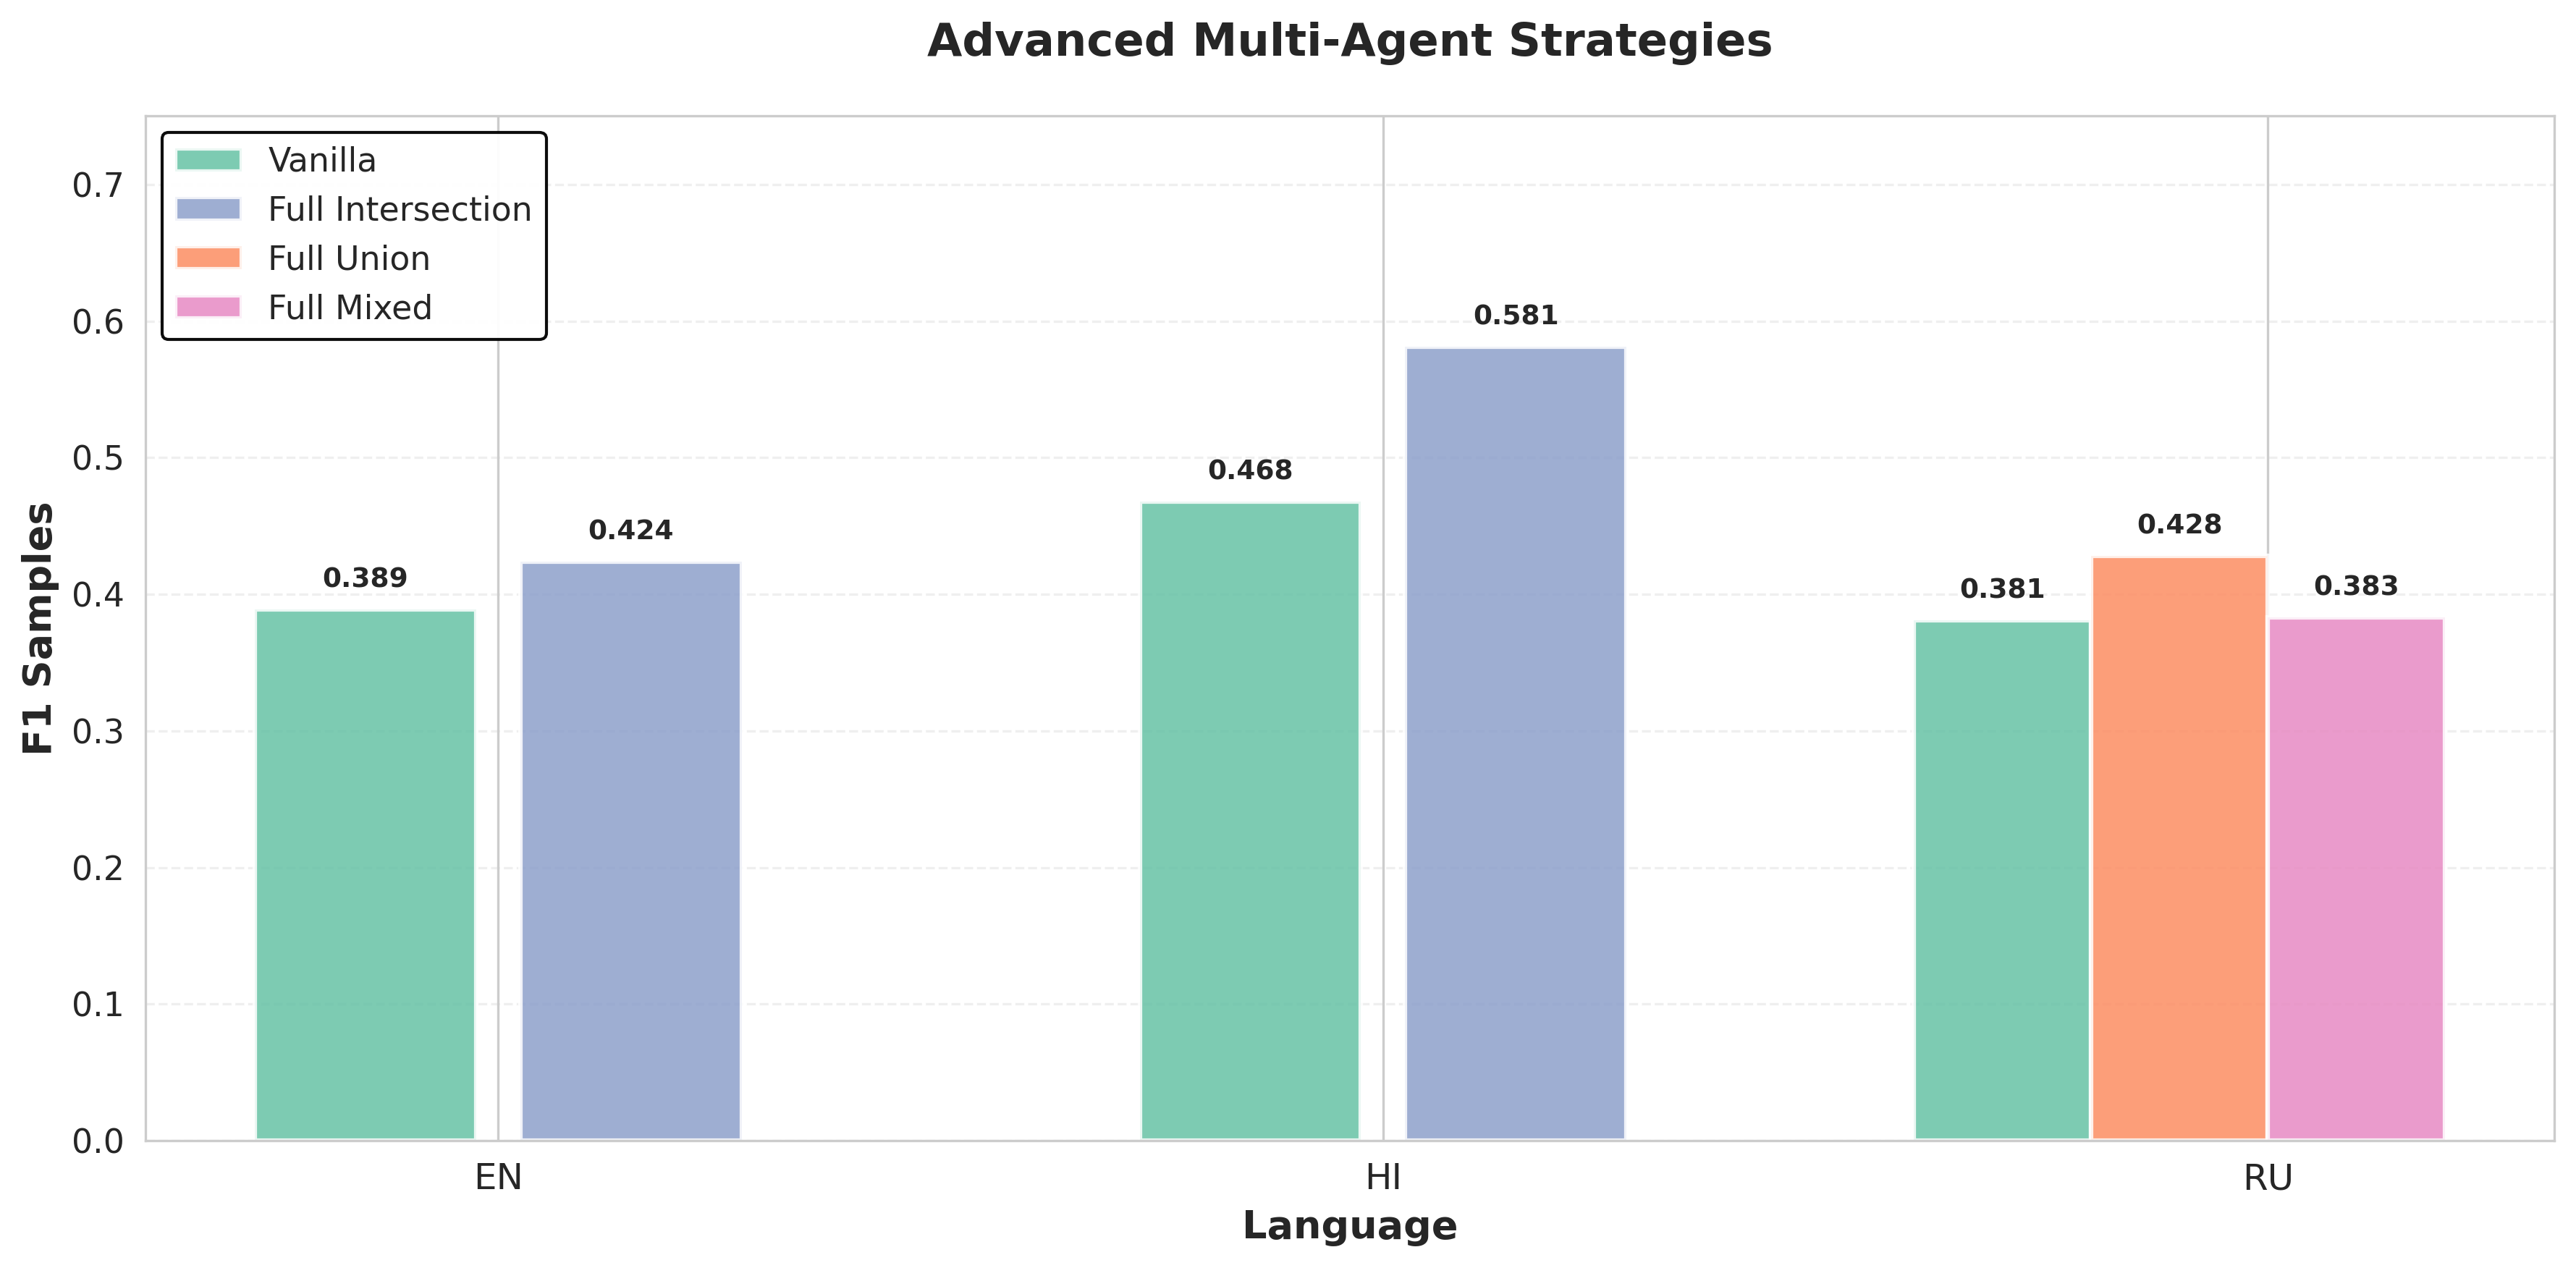
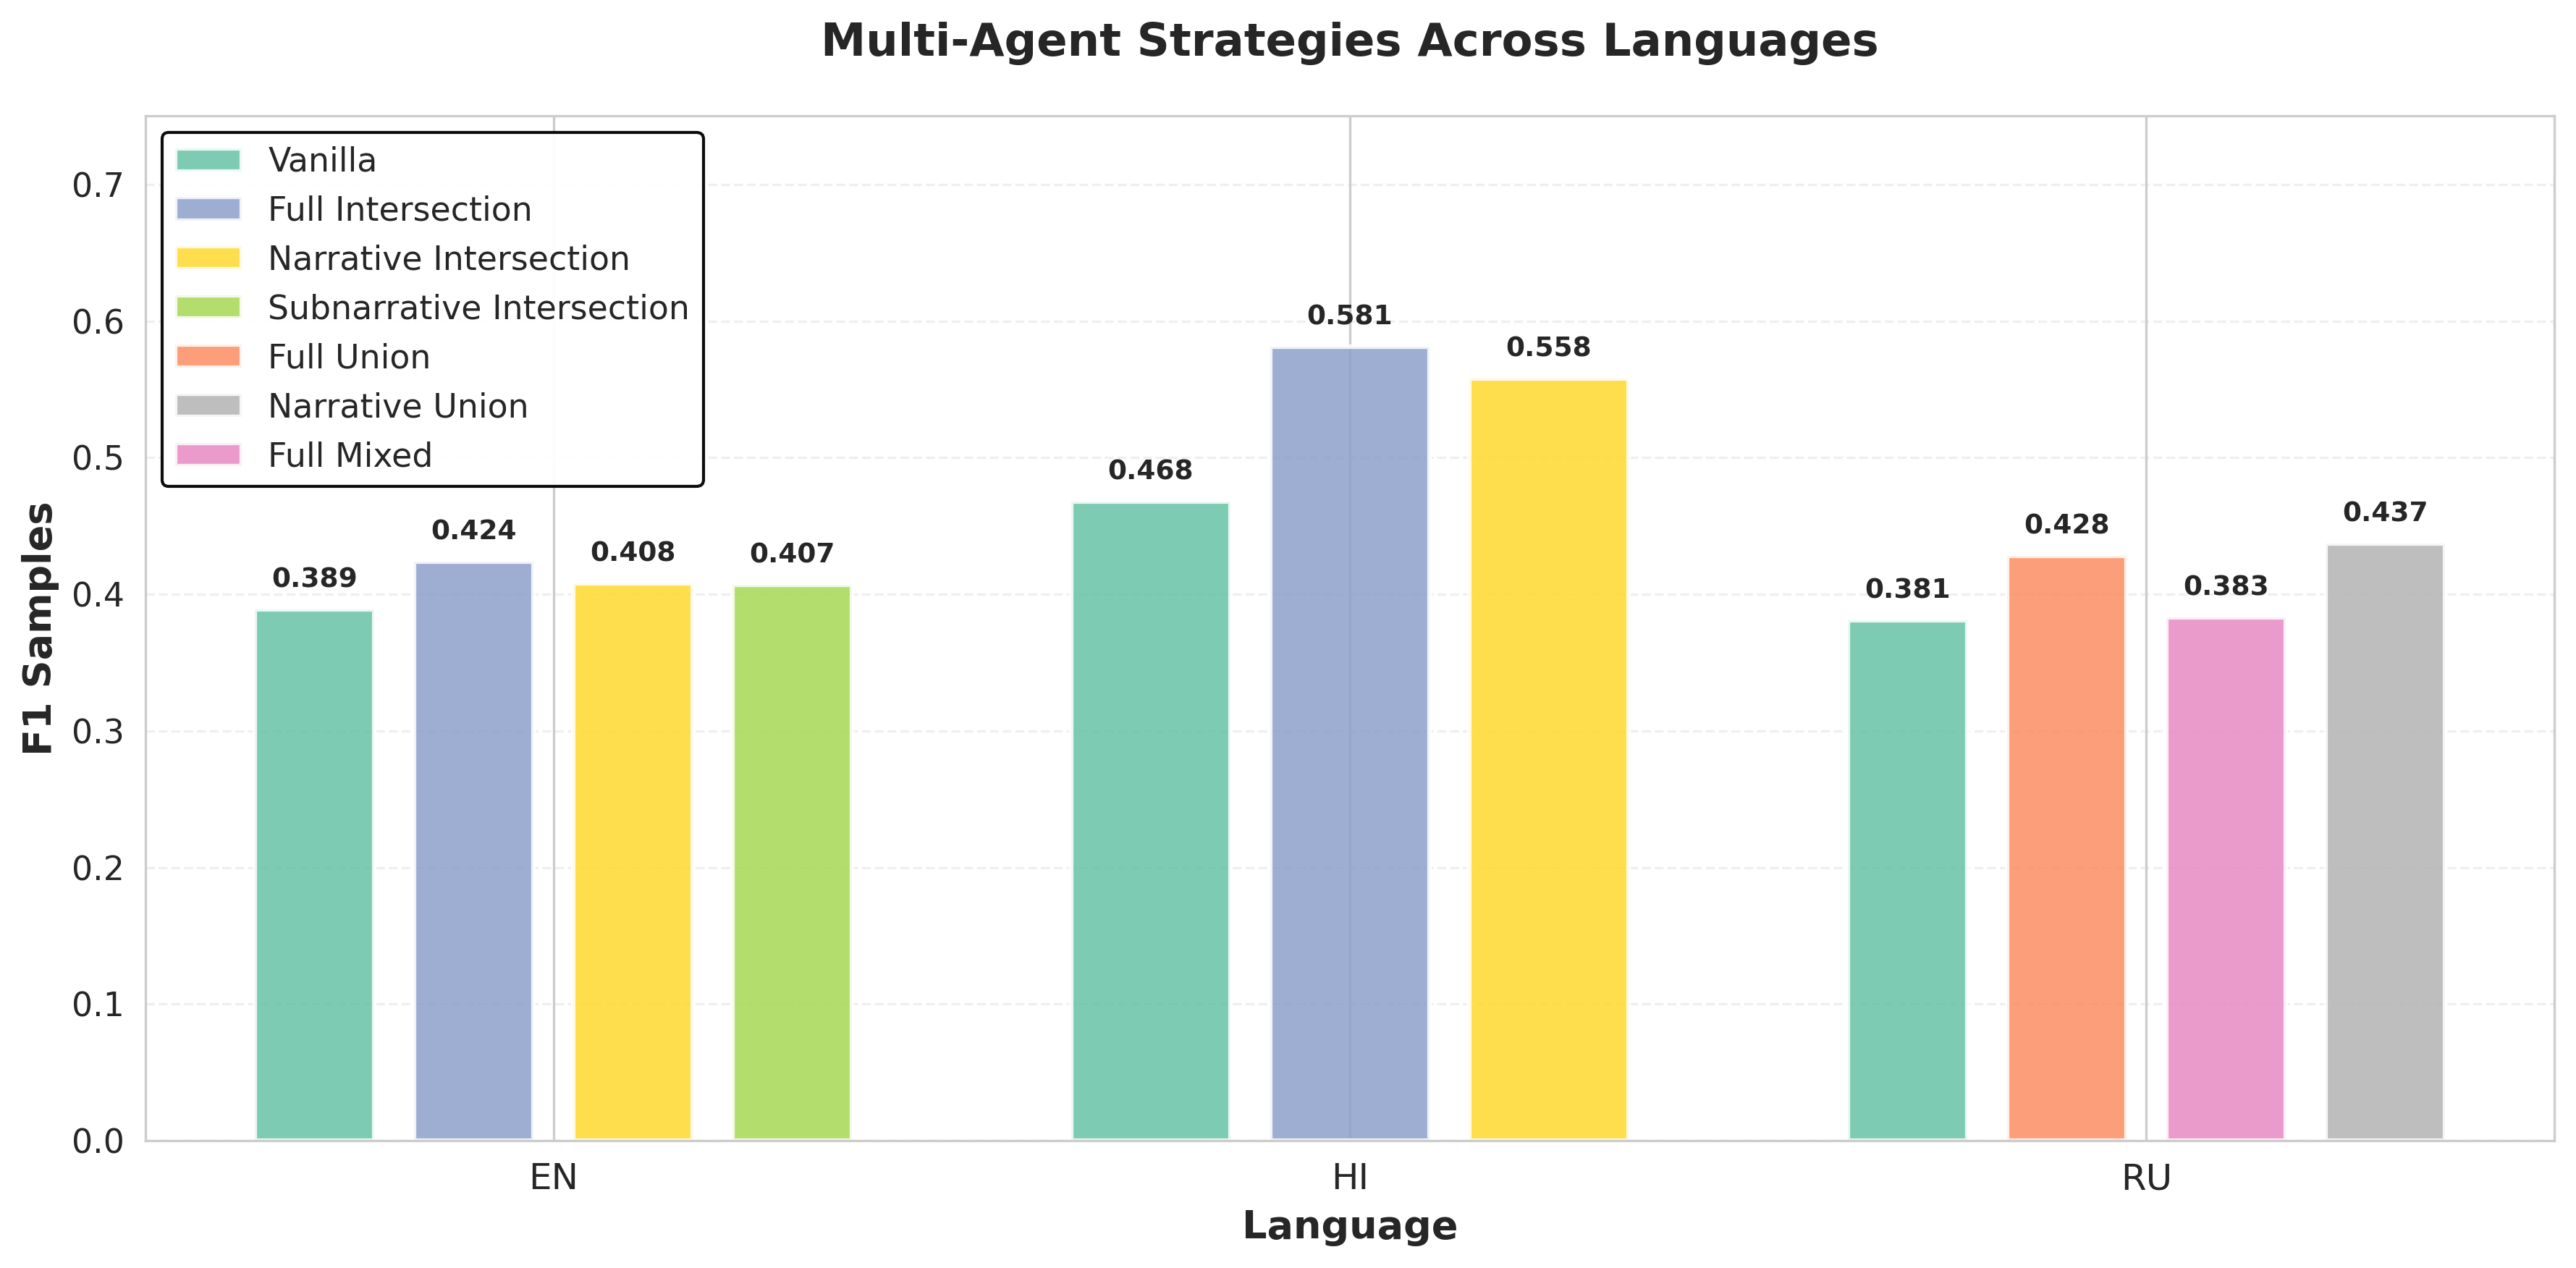
Update plot2_advanced_strategies.py to enhance multi-agent strategy visualization and include additional strategies for EN, HI, and RU

diff --git a/src/analysis/plot2_advanced_strategies.py b/src/analysis/plot2_advanced_strategies.py
@@ -1,6 +1,6 @@
 """
-Plot 2: Advanced Multi-Agent Strategies
-Shows Full Intersection for EN & HI, Full Union & Full Mixed for RU (vs Vanilla baselines)
+Plot 2: Multi-Agent Strategies Across Languages
+Shows Full/Narrative/Subnarrative strategies for EN, Full/Narrative for HI, Full/Narrative/Mixed for RU (vs Vanilla baselines)
 """
 import pandas as pd
 import matplotlib.pyplot as plt
@@ -17,7 +17,7 @@ df = pd.read_csv('results/openai_gpt-5-nano/summary.csv')
 # Prepare data for plot 2
 plot2_data = []
 
-# English Full Intersection vs Vanilla
+# English - All strategies
 plot2_data.append({
     'Language': 'EN',
     'Strategy': 'Vanilla',
@@ -28,8 +28,20 @@ plot2_data.append({
     'Strategy': 'Full Intersection',
     'f1_samples': df[(df['Language'] == 'EN') & (df['Config'] == 'Full Intersection')]['f1 samples'].values[0]
 })
+# Standardize the English Narrative Intersection name
+en_narr_intersection = df[(df['Language'] == 'EN') & (df['Config'].str.contains('Narrative Intersection'))]['f1 samples'].values
+plot2_data.append({
+    'Language': 'EN',
+    'Strategy': 'Narrative Intersection',
+    'f1_samples': en_narr_intersection[0] if len(en_narr_intersection) > 0 else 0
+})
+plot2_data.append({
+    'Language': 'EN',
+    'Strategy': 'Subnarrative Intersection',
+    'f1_samples': df[(df['Language'] == 'EN') & (df['Config'] == 'Subnarrative Intersection')]['f1 samples'].values[0]
+})
 
-# Hindi Full Intersection vs Vanilla
+# Hindi - Full Intersection and Narrative Intersection
 plot2_data.append({
     'Language': 'HI',
     'Strategy': 'Vanilla',
@@ -40,8 +52,13 @@ plot2_data.append({
     'Strategy': 'Full Intersection',
     'f1_samples': df[(df['Language'] == 'HI') & (df['Config'] == 'Full Intersection')]['f1 samples'].values[0]
 })
+plot2_data.append({
+    'Language': 'HI',
+    'Strategy': 'Narrative Intersection',
+    'f1_samples': df[(df['Language'] == 'HI') & (df['Config'] == 'Narrative Intersection')]['f1 samples'].values[0]
+})
 
-# Russian Full Union, Full Mixed vs Vanilla
+# Russian - All strategies
 plot2_data.append({
     'Language': 'RU',
     'Strategy': 'Vanilla',
@@ -57,6 +74,11 @@ plot2_data.append({
     'Strategy': 'Full Mixed',
     'f1_samples': df[(df['Language'] == 'RU') & (df['Config'] == 'Full Mixed')]['f1 samples'].values[0]
 })
+plot2_data.append({
+    'Language': 'RU',
+    'Strategy': 'Narrative Union',
+    'f1_samples': df[(df['Language'] == 'RU') & (df['Config'] == 'Narrative Union')]['f1 samples'].values[0]
+})
 
 df_plot2 = pd.DataFrame(plot2_data)
 
@@ -68,7 +90,10 @@ colors_plot2 = {
     'Vanilla': '#66c2a5',
     'Full Intersection': '#8da0cb',
     'Full Union': '#fc8d62',
-    'Full Mixed': '#e78ac3'
+    'Full Mixed': '#e78ac3',
+    'Narrative Intersection': '#ffd92f',
+    'Subnarrative Intersection': '#a6d854',
+    'Narrative Union': '#b3b3b3'
 }
 
 # Group by language
@@ -83,11 +108,15 @@ for lang_idx, lang in enumerate(languages_plot2):
     lang_data = df_plot2[df_plot2['Language'] == lang]
     strategies = lang_data['Strategy'].unique()
     
-    # Calculate positions for bars
-    if lang == 'RU':
+    # Calculate positions for bars based on number of strategies
+    num_strategies = len(strategies)
+    if num_strategies == 4:  # EN or RU with 4 strategies
+        width_p2 = 0.15
+        positions = [lang_idx - 0.3, lang_idx - 0.1, lang_idx + 0.1, lang_idx + 0.3]
+    elif num_strategies == 3:  # HI with 3 strategies
         width_p2 = 0.2
-        positions = [lang_idx - 0.3, lang_idx - 0.1, lang_idx + 0.1]
-    else:
+        positions = [lang_idx - 0.25, lang_idx, lang_idx + 0.25]
+    else:  # Default 2 strategies
         width_p2 = 0.25
         positions = [lang_idx - 0.15, lang_idx + 0.15]
     
@@ -105,7 +134,7 @@ for lang_idx, lang in enumerate(languages_plot2):
 
 ax.set_xlabel('Language', fontsize=13, fontweight='bold')
 ax.set_ylabel('F1 Samples', fontsize=13, fontweight='bold')
-ax.set_title('Advanced Multi-Agent Strategies', fontsize=15, fontweight='bold', pad=20)
+ax.set_title('Multi-Agent Strategies Across Languages', fontsize=15, fontweight='bold', pad=20)
 ax.set_xticks(x_plot2)
 ax.set_xticklabels(languages_plot2, fontsize=12)
 
@@ -114,7 +143,10 @@ from matplotlib.patches import Patch
 legend_elements = [
     Patch(facecolor=colors_plot2['Vanilla'], label='Vanilla', alpha=0.85, edgecolor='white', linewidth=1.5),
     Patch(facecolor=colors_plot2['Full Intersection'], label='Full Intersection', alpha=0.85, edgecolor='white', linewidth=1.5),
+    Patch(facecolor=colors_plot2['Narrative Intersection'], label='Narrative Intersection', alpha=0.85, edgecolor='white', linewidth=1.5),
+    Patch(facecolor=colors_plot2['Subnarrative Intersection'], label='Subnarrative Intersection', alpha=0.85, edgecolor='white', linewidth=1.5),
     Patch(facecolor=colors_plot2['Full Union'], label='Full Union', alpha=0.85, edgecolor='white', linewidth=1.5),
+    Patch(facecolor=colors_plot2['Narrative Union'], label='Narrative Union', alpha=0.85, edgecolor='white', linewidth=1.5),
     Patch(facecolor=colors_plot2['Full Mixed'], label='Full Mixed', alpha=0.85, edgecolor='white', linewidth=1.5)
 ]
 ax.legend(handles=legend_elements, loc='upper left', framealpha=0.95, fontsize=11, edgecolor='black')
@@ -131,8 +163,12 @@ print("  - results/openai_gpt-5-nano/plot2_advanced_strategies.png")
 # Summary statistics
 print("\nImprovement from Vanilla:")
 print(f"  EN Full Intersection: {df_plot2[(df_plot2['Language']=='EN') & (df_plot2['Strategy']=='Full Intersection')]['f1_samples'].values[0] - df_plot2[(df_plot2['Language']=='EN') & (df_plot2['Strategy']=='Vanilla')]['f1_samples'].values[0]:+.3f}")
+print(f"  EN Narrative Intersection: {df_plot2[(df_plot2['Language']=='EN') & (df_plot2['Strategy']=='Narrative Intersection')]['f1_samples'].values[0] - df_plot2[(df_plot2['Language']=='EN') & (df_plot2['Strategy']=='Vanilla')]['f1_samples'].values[0]:+.3f}")
+print(f"  EN Subnarrative Intersection: {df_plot2[(df_plot2['Language']=='EN') & (df_plot2['Strategy']=='Subnarrative Intersection')]['f1_samples'].values[0] - df_plot2[(df_plot2['Language']=='EN') & (df_plot2['Strategy']=='Vanilla')]['f1_samples'].values[0]:+.3f}")
 print(f"  HI Full Intersection: {df_plot2[(df_plot2['Language']=='HI') & (df_plot2['Strategy']=='Full Intersection')]['f1_samples'].values[0] - df_plot2[(df_plot2['Language']=='HI') & (df_plot2['Strategy']=='Vanilla')]['f1_samples'].values[0]:+.3f}")
+print(f"  HI Narrative Intersection: {df_plot2[(df_plot2['Language']=='HI') & (df_plot2['Strategy']=='Narrative Intersection')]['f1_samples'].values[0] - df_plot2[(df_plot2['Language']=='HI') & (df_plot2['Strategy']=='Vanilla')]['f1_samples'].values[0]:+.3f}")
 print(f"  RU Full Union: {df_plot2[(df_plot2['Language']=='RU') & (df_plot2['Strategy']=='Full Union')]['f1_samples'].values[0] - df_plot2[(df_plot2['Language']=='RU') & (df_plot2['Strategy']=='Vanilla')]['f1_samples'].values[0]:+.3f}")
+print(f"  RU Narrative Union: {df_plot2[(df_plot2['Language']=='RU') & (df_plot2['Strategy']=='Narrative Union')]['f1_samples'].values[0] - df_plot2[(df_plot2['Language']=='RU') & (df_plot2['Strategy']=='Vanilla')]['f1_samples'].values[0]:+.3f}")
 print(f"  RU Full Mixed: {df_plot2[(df_plot2['Language']=='RU') & (df_plot2['Strategy']=='Full Mixed')]['f1_samples'].values[0] - df_plot2[(df_plot2['Language']=='RU') & (df_plot2['Strategy']=='Vanilla')]['f1_samples'].values[0]:+.3f}")
 
 plt.close()